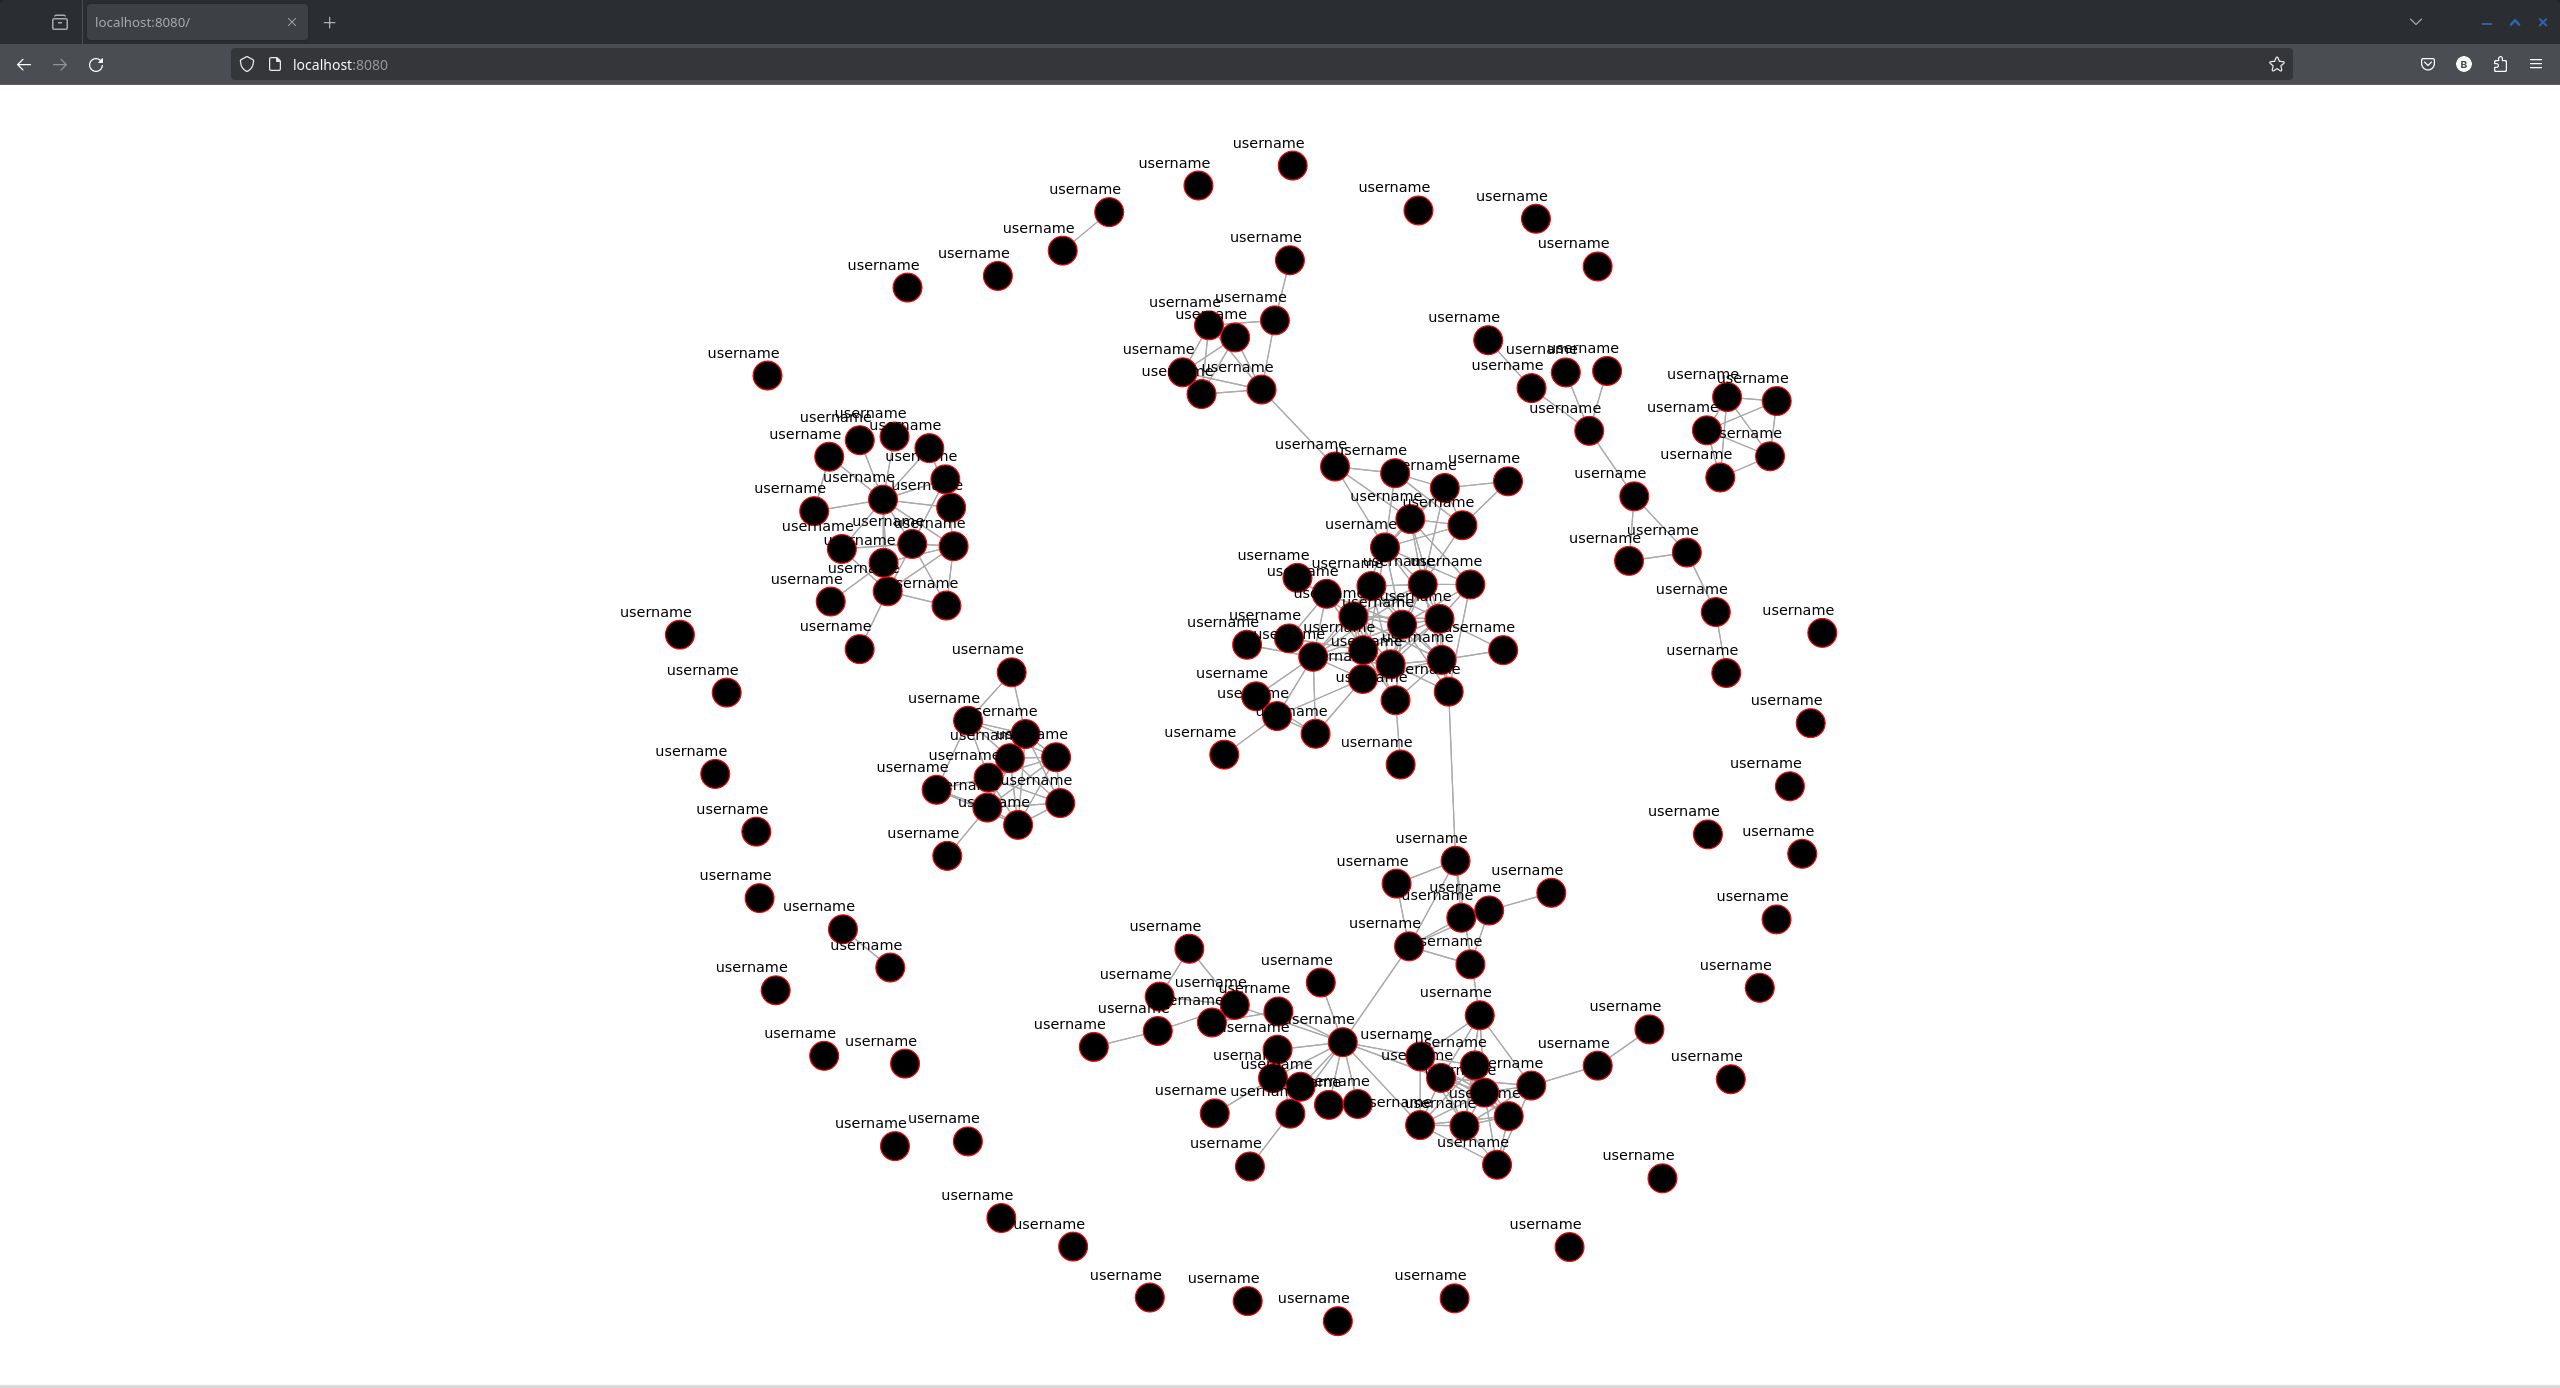
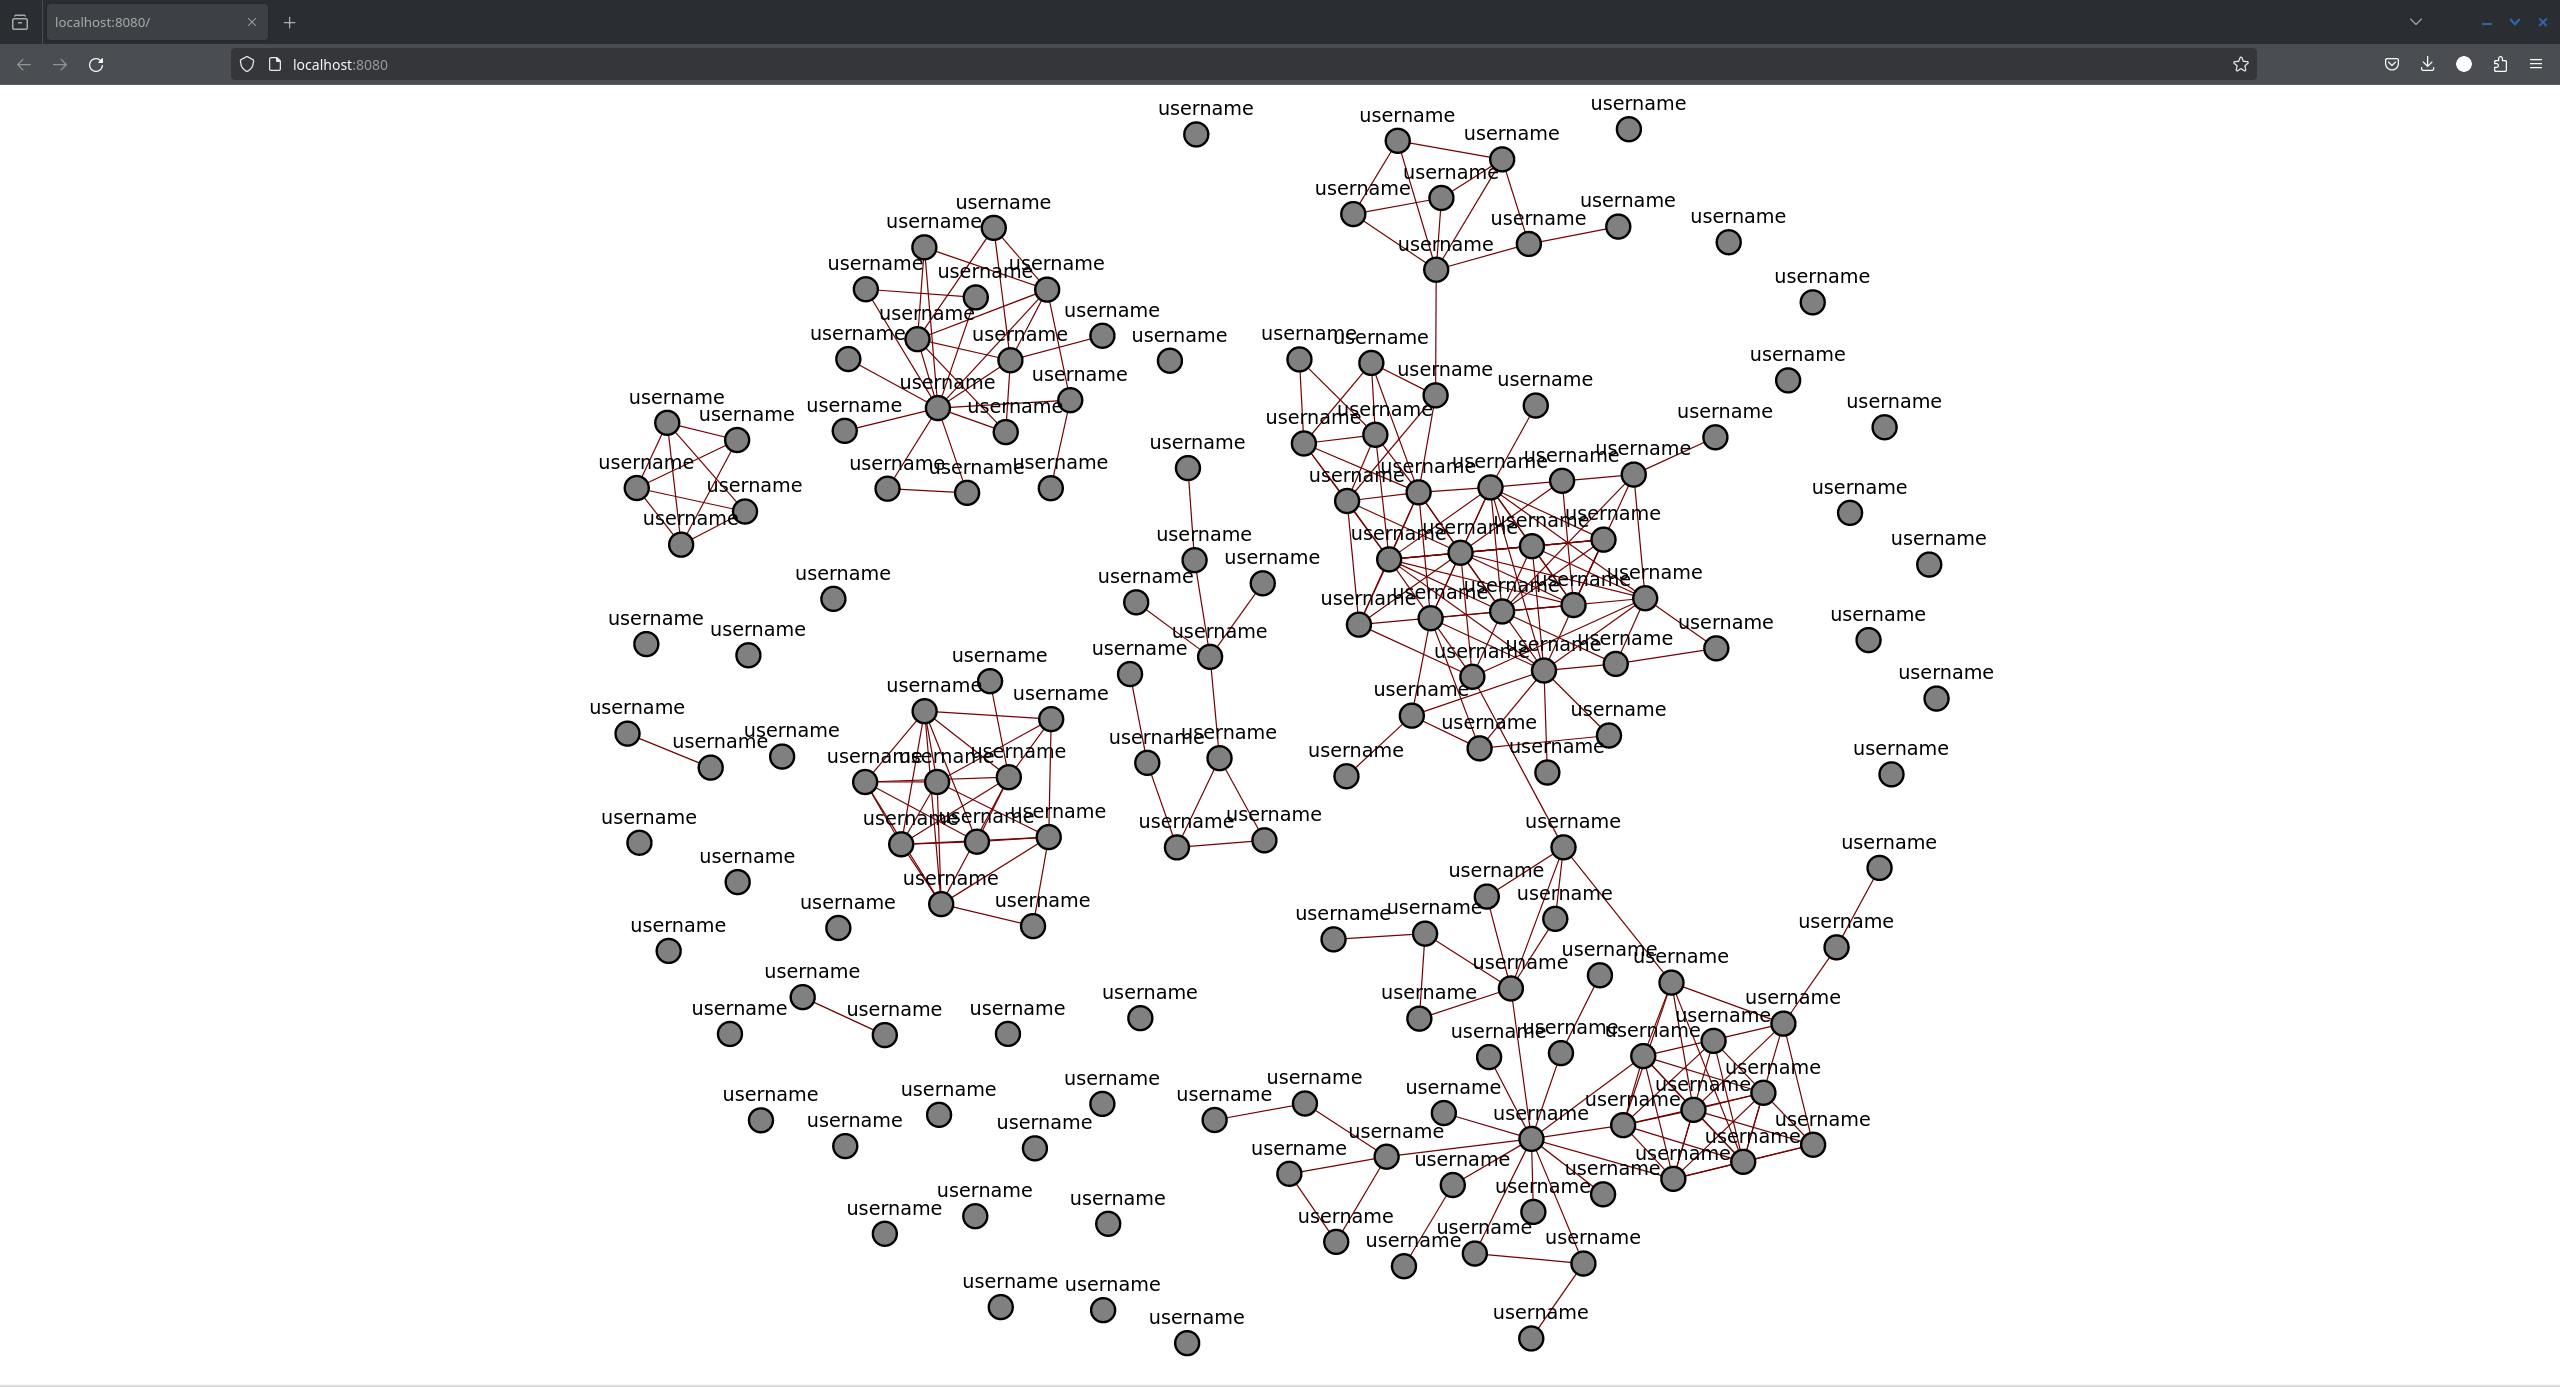
Synchronous, changed style and cleaned code
Changed from async to sync execution.

Changed the node style to a more readable one.

Added progress bar in the console

diff --git a/index.js b/index.js
@@ -4,105 +4,123 @@ const fs        = require("fs");
 
 let frNetwork = 
 {
-    "nodes":[],
-    "links":[]
+	"nodes":[],
+	"links":[]
 };
 
 async function main()
 {
-    if(!fs.existsSync("./webFiles/data.json"))
-    {
-        console.log("/!\\\ndata.json not found, retrieving friend list from the discord API\n\n");
+	if(!fs.existsSync("./webFiles/data.json"))
+	{
+		console.log("/!\\\ndata.json not found, retrieving friend list from the discord API\n\n");
 
-        // Get the friends
-        frLinks.getFriends(config.token).then(async function(friendsJson)
-        {
-            if(!(typeof friendsJson[Symbol.iterator] === 'function'))
-            {
-                console.log("\n\n/!\\ /!\\\nCould not retrieve friend list, please make sure the token in config.json is valid and/or you have friends\n/!\\ /!\\");
-                process.exit(1);
-            }
-            for(const friend of friendsJson)
-            {
-                // Make sure to not exceed the discord API rate limit
-                /*
-                 *  MODIFY AT YOUR OWN RISKS, YOU CAN VERY MUCH GET BANNED IF YOU SET IT TOO LOW
-                 */
-                await sleep(400);
+		// Get the friends list
+		const friendsJson = await frLinks.getFriends(config.token);
+		
+		// The friend list isn't a list
+		if(!Array.isArray(friendsJson))
+		{
+			console.error("\n\n/!\\ /!\\\nCould not retrieve friend list, please make sure the token in config.json is valid and/or you have friends\n/!\\ /!\\");
+			process.exit(1);
+		}
 
-                // Add user to the nodes
-                frNetwork["nodes"].push(
-                {
-                    "id":parseInt(friend.user.id),
-                    "name":getName(friend.user)
-                });
+		// Keeping track of the number for the progress bar
+		let progress = 0;
+		for(const friend of friendsJson)
+		{
+			// Make sure to not exceed the discord API rate limit
+			/*
+			 *  MODIFY AT YOUR OWN RISKS, YOU CAN VERY MUCH GET BANNED IF YOU SET IT TOO LOW
+			 */
+			await sleep(400);
 
-                // Add common friends to links
-                frLinks.getCommonFriends(config.token, friend.user.id).then(function(commonFriends)
-                {
-                    for(const commonFriend of commonFriends)
-                    {
-                        // Check if the link was previously created the other way around
-                        if(!linkExists(parseInt(commonFriend.id), parseInt(friend.user.id)))
-                        {
-                            frNetwork["links"].push(
-                            {
-                                "source":parseInt(friend.user.id),
-                                "target":parseInt(commonFriend.id)
-                            });
-                            console.log(`\rLink between ${getName(friend.user)} and ${getName(commonFriend)} added`);
-                        }
-                    }
-                });
-                console.log("");
-            };
-            
-            // Save the data file
-            fs.writeFile ("./webFiles/data.json", JSON.stringify(frNetwork), function(err) {
-                if (err) throw err;
-                console.log('complete');
-            });
-        });
-    }
+			// Add user to the nodes
+			frNetwork.nodes.push(
+			{
+				"id":parseInt(friend.user.id),
+				"name":getName(friend.user)
+			});
+
+			// Get a list of the common friends
+			const commonFriends = await frLinks.getCommonFriends(config.token, friend.user.id);
+			for(const commonFriend of commonFriends)
+			{
+				// Check if the link wasn't previously created the other way around
+				if(!linkExists(parseInt(commonFriend.id), parseInt(friend.user.id)))
+				{
+					frNetwork["links"].push(
+					{
+						"source":parseInt(friend.user.id),
+						"target":parseInt(commonFriend.id)
+					});
+					console.log(`\rLink between ${getName(friend.user)} and ${getName(commonFriend)} added       `);
+				}
+				else
+				{
+					// The link was already created
+					console.log(`\rLink ${getName(friend.user)} ${getName(commonFriend)} already exists       `);
+				}
+			}
+			if(commonFriends.length == 0)
+			{
+				console.log(`\rNo common friend with ${getName(friend.user)}      `);
+			}
+
+			console.log("\r----------------------------------");
+
+			progress++;
+			process.stdout.write(
+				(100 * progress/friendsJson.length).toFixed(0) + "% " + 	// Show the percentage of progress
+				"[" + "=".repeat(25. * progress/friendsJson.length) + ">" + // Show completed progress
+				" ".repeat(25. - 25. * progress/friendsJson.length) + "]" 	// Fill the rest with spaces
+			);
+		};
+
+		// Save the data file
+		fs.writeFile ("./webFiles/data.json", JSON.stringify(frNetwork), function(err) {
+			if (err) throw err;
+			console.log('\r\nComplete, open a web browser to \nhttp://localhost:8080');
+		});
+	}
 
 
-    // Startup the web server on port 8080
-    try
-    {
-        const htmlGen = require("./htmlGen");
-    }
-    catch (err)
-    {
-        console.error(err);
-    }
+	// Startup the web server on port 8080
+	try
+	{
+		const htmlGen = require("./htmlGen");
+	}
+	catch (err)
+	{
+		console.error(err);
+	}
 }
 
 // Used to not spam the discord api
 async function sleep(millis) {
-    return new Promise(resolve => setTimeout(resolve, millis));
+	return new Promise(resolve => setTimeout(resolve, millis));
 }
 
 // Some users didn't switch to the new username system
 // So user.global_name was returned as null
 function getName(user)
 {
-    if(user.global_name != null) return user.global_name;
+	if(user.global_name != null) return user.global_name;
 
-    if(user.username != null) return user.username;
+	if(user.username != null) return user.username;
 
-    return "Deleted user";
+	return "Deleted user";
 
 
 }
 
 function linkExists(source, target)
 {
-    for(const link of frNetwork.links)
-    {
-        if(link.source == source && link.target == target) return true;
-    }
+	for(const link of frNetwork.links)
+	{
+		if(link.source == source && link.target == target) return true;
+	}
 
-    return false;
+	return false;
 }
 
 main();

diff --git a/webFiles/code.js b/webFiles/code.js
@@ -40,27 +40,27 @@ forceProperties = {
         enabled: true,
         strength: -100,
         distanceMin: 1,
-        distanceMax: 2000
+        distanceMax: 1000
     },
     collide: {
         enabled: true,
-        strength: .7,
+        strength: .5,
         iterations: 1,
-        radius: 12
+        radius: 30
     },
     forceX: {
         enabled: true,
-        strength: .06,
+        strength: .045,
         x: .04
     },
     forceY: {
         enabled: true,
-        strength: .06,
+        strength: .045,
         y: .04
     },
     link: {
         enabled: true,
-        distance: 50,
+        distance: 75,
         iterations: 3
     }
 }
@@ -152,9 +152,10 @@ function initializeDisplay() {
 // update the display based on the forces (but not positions)
 function updateDisplay() {
     node
-        .attr("r", forceProperties.collide.radius)
-        .attr("stroke", forceProperties.charge.strength > 0 ? "blue" : "red")
-        //.attr("stroke-width", forceProperties.charge.enabled == false ? 0 : Math.abs(forceProperties.charge.strength) / 15);
+        .attr("r", 10)
+        .attr("stroke", "black")
+        .attr("stroke-width", 2)
+        .attr("fill", "gray");
 
     link
         .attr("stroke-width", forceProperties.link.enabled ? 1 : .5)
@@ -179,10 +180,8 @@ function ticked() {
 
     text
         // Center the name depending on its length
-        .attr("dx", function (d) { return d.x - 7 * (d.name.length / 2); })
-        .attr("dy", function (d) { return d.y - 17; })
-
-
+        .attr("dx", function (d) { return d.x - 8 * (d.name.length / 2); })
+        .attr("dy", function (d) { return d.y - 16; })
 }
 
 

diff --git a/webFiles/index.html b/webFiles/index.html
@@ -21,7 +21,7 @@ svg {
   min-width: 200px;
 }
 .links line {
-  stroke: #aaa;
+  stroke: #760101;
 }
 .nodes circle {
   pointer-events: all;
@@ -29,6 +29,9 @@ svg {
 text {
   margin: 10px;
   background-color: red;
+}
+.text text {
+  font-size: 16px;
 }
 
 </style>
